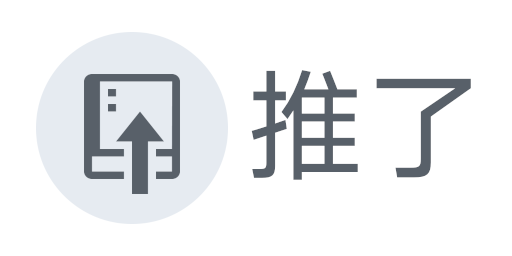
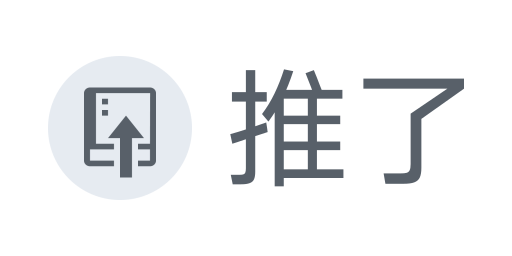
refactor: use SVG

Changed region(s): [[0.0625, 0.125, 0.9375, 0.875]]

diff --git a/README.md b/README.md
@@ -27,3 +27,12 @@
 
 # 活了
 ![活了](./活了.png)
+
+# 爱了
+![爱了](./爱了.png)
+
+# 坏了
+![坏了](./坏了.png)
+
+# 鸽了
+![鸽了](./鸽了.png)
